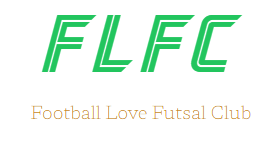
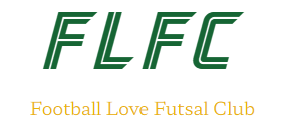
[feat] css 변경

Changed region(s): [[0.3143, 0.087, 0.8857, 0.5217], [0.0857, 0.7246, 0.9143, 0.8406], [0.1429, 0.087, 0.3429, 0.5217]]

diff --git a/src/App.jsx b/src/App.jsx
@@ -74,26 +74,26 @@ function App() {
       return (
           <div className='flex flex-col items-center' style={{height: '100vh'}}>
               <header ref={headerRef} className='flex flex-col items-center w-full top-5'>
-                  <span className='text-green-500' style={{ letterSpacing: '3px', fontSize: '35px', fontFamily: 'Giants-Inline', fontStyle: 'normal', fontWeight: '400'}}>FLFC</span>
-                  <span className='mb-3 text-yellow-600' style={{ fontSize: '9px', fontFamily: 'Hahmlet', fontStyle: 'normal', fontWeight: '100'}}>Football Love Futsal Club</span>
+                  <span className='text-green-800' style={{ letterSpacing: '3px', fontSize: '35px', fontFamily: 'Giants-Inline', fontStyle: 'normal', fontWeight: '400'}}>FLFC</span>
+                  <span className='mb-3 text-yellow-500' style={{ fontSize: '9px', fontFamily: 'Hahmlet', fontStyle: 'normal', fontWeight: '300'}}>Football Love Futsal Club</span>
                   <div
-                      className='flex flex-row justify-around w-full border-solid border-0 border-b-2 border-t-2 border-green-600 mb-5 p-2'
+                      className='flex flex-row justify-around w-full border-solid border-0 border-b-2 border-t-2 border-green-800 mb-5 p-2'
                       style={{fontFamily: 'KBO-Dia-Gothic_bold'}}>
                       <div
                           className={`cursor-pointer w-full ${tap === 0 && 'text-yellow-500'}`}
                           onClick={() => setTap(0)}>{tapName[0]}
                       </div>
-                      <div className='border-green-600 border-r-2 w-1 h-full' style={{width: '1px', height: '24px'}}/>
+                      <div className='border-green-800 border-r-2 w-1 h-full' style={{width: '1px', height: '24px'}}/>
                       <div
                           className={`cursor-pointer w-full ${tap === 1 && 'text-yellow-500'}`}
                           onClick={() => setTap(1)}>{tapName[1]}
                       </div>
-                      <div className='border-green-600 border-r-2 w-1 h-full' style={{width: '1px', height: '24px'}}/>
+                      <div className='border-green-800 border-r-2 w-1 h-full' style={{width: '1px', height: '24px'}}/>
                       <div
                           className={`cursor-pointer w-full ${tap === 2 && 'text-yellow-500'}`}
                           onClick={() => setTap(2)}>{tapName[2]}
                       </div>
-                      <div className='border-green-600 border-r-2 w-1 h-full' style={{width: '1px', height: '24px'}}/>
+                      <div className='border-green-800 border-r-2 w-1 h-full' style={{width: '1px', height: '24px'}}/>
                       <div
                           className={`cursor-pointer w-full ${tap === 3 && 'text-yellow-500'}`}
                           onClick={() => setTap(3)}>{tapName[3]}

diff --git a/src/components/LetsRecord.jsx b/src/components/LetsRecord.jsx
@@ -201,7 +201,6 @@ function LetsRecord(props) {
 
     const handleTouchEnd = () => {
         const diff = startX - moveX;
-        console.log(diff)
         if (diff > 75) {
             setTap(1)
         } else if (diff < -75) {
@@ -214,12 +213,12 @@ function LetsRecord(props) {
     return (
         <div
             className={`flex flex-col items-center w-full relative ${!open && 'justify-center'}`}
-            style={{top: open ? '-12px' : '-30px', height: !open && '95vh'}}
+            style={{top: open ? '-12px' : '-21px', height: !open && '80vh'}}
             onTouchStart={handleTouchStart}
             onTouchMove={handleTouchMove}
             onTouchEnd={handleTouchEnd}>
             <span className='mt-3 mb-1 underline underline-offset-1' style={{fontFamily: 'Giants-Inline'}}>{"Today's Record"}</span>
-            <hr className='w-1/2 mb-5 border-green-600'/>
+            <hr className='w-1/2 mb-5 border-green-700'/>
             <div className='flex flex-col items-center w-full'>
                 <>
                 <div className={open ? 'custom-border' : 'default-border'}>
